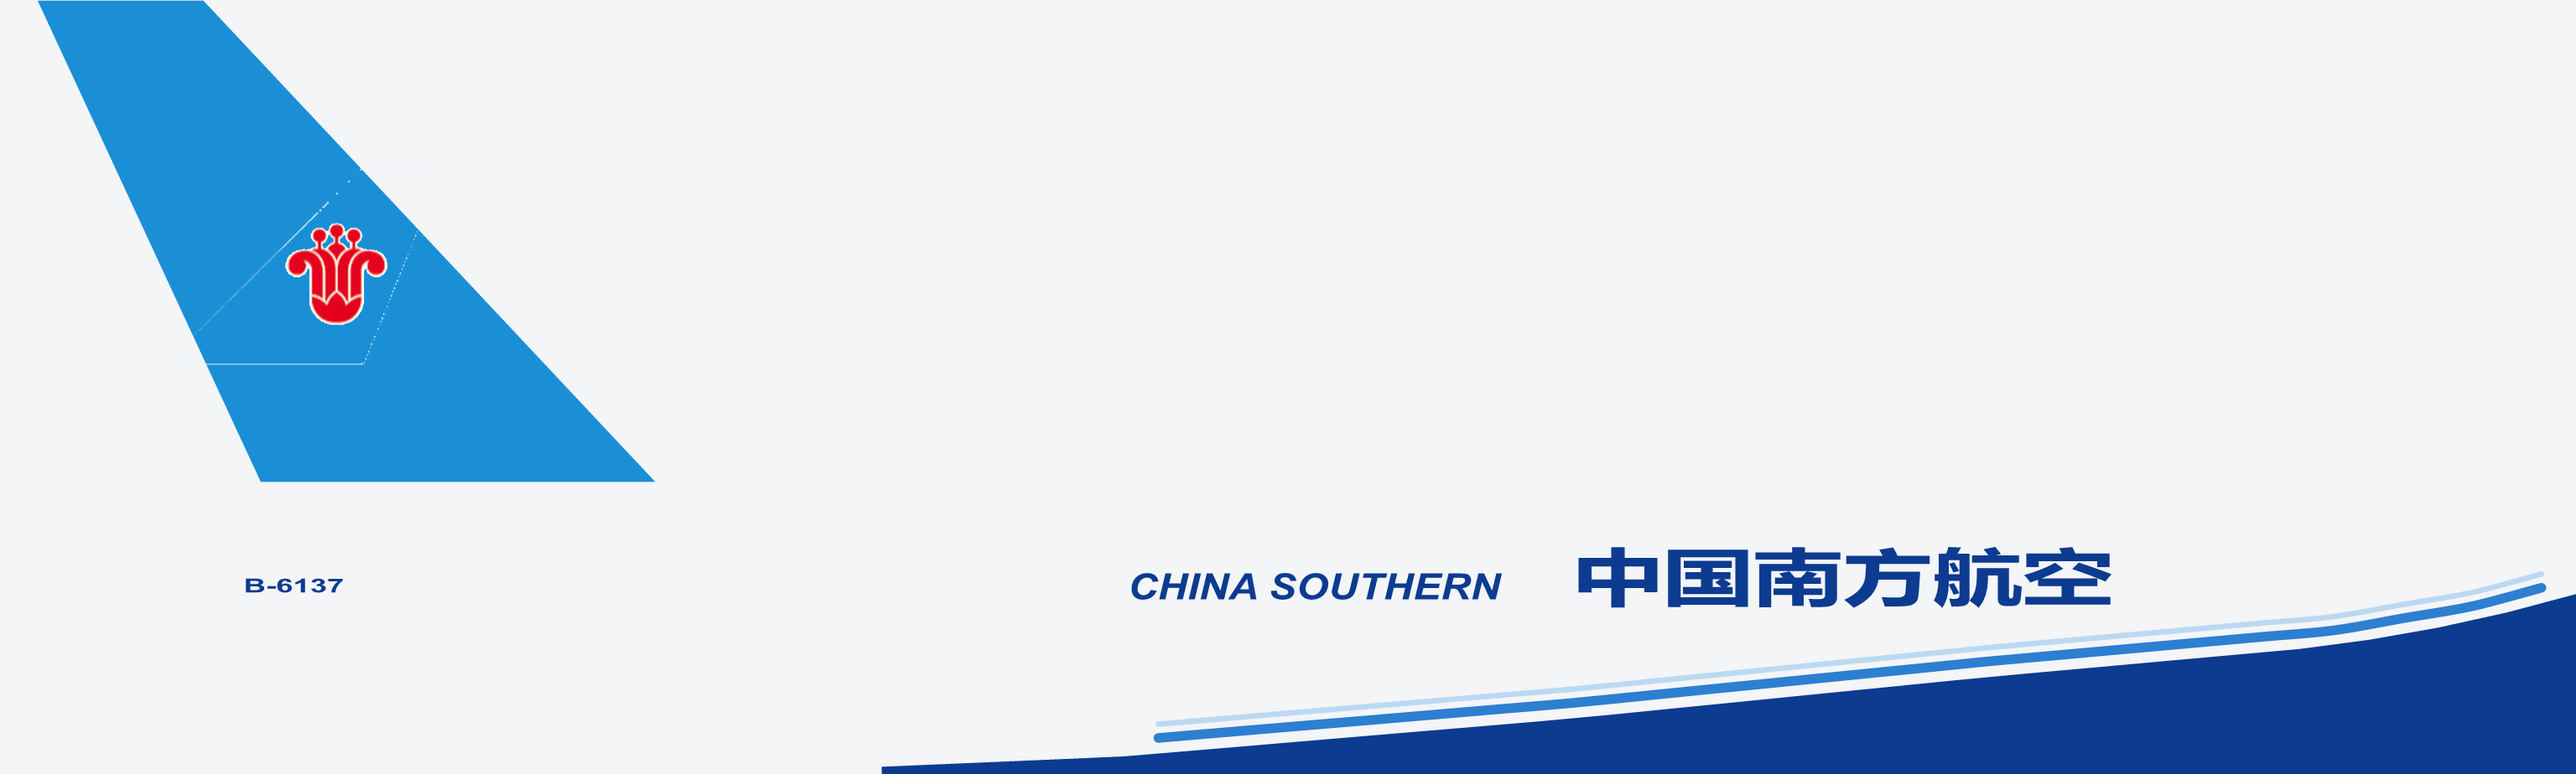
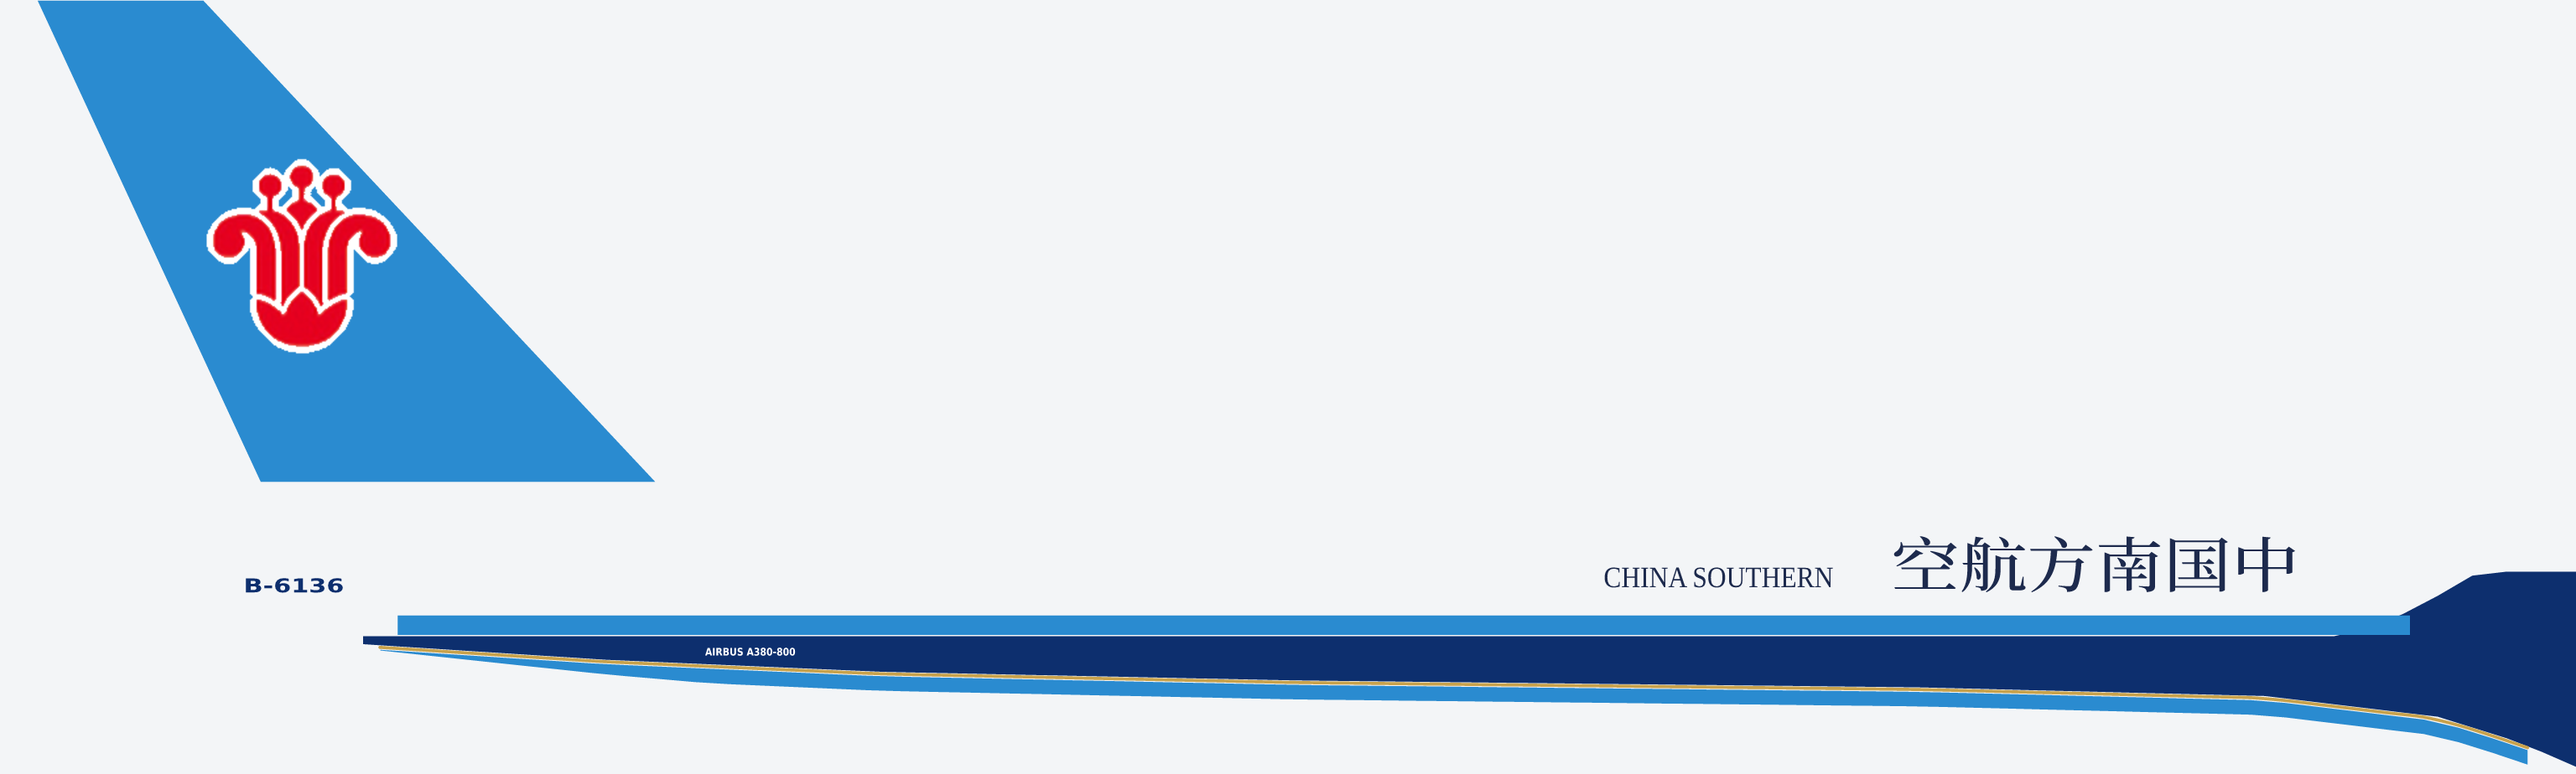
fix: China Southern A380 livery matches the real aircraft
Redrawn from photos of B-6136/B-6137: the navy now wraps the nose up to the cockpit glazing and runs aft as a band under the main-deck windows, with a sky-blue stripe through the windows above it and a gold hairline plus sky-blue stripe below; the belly stays white. Titles sit at upper-deck height in a Song-style face (中 nearest the nose on both sides) ahead of a serif CHINA SOUTHERN; an AIRBUS A380-800 badge sits in the band aft of the wing. The fin carries a much larger kapok with a clean white edge (the derived logo is cropped and re-edged). Wingtip fences are white. Atlas version bumped.

Agent: Pi Agent

Model: claude-opus-5.5 (github-copilot)

Changed region(s): [[0.125, 0.697, 1.0, 1.0], [0.0625, 0.2121, 0.1562, 0.4545], [0.0938, 0.7273, 0.125, 0.7879]]

diff --git a/src/reality-a380.js b/src/reality-a380.js
@@ -4,7 +4,7 @@ export const A380_REALITY={
  UAE:{status:'real',note:'阿联酋航空 A380-800（如 A6-EDA）：全白机身、红绿黑三色垂尾、金色 Emirates 与阿拉伯文机身标识。'},
  DLH:{status:'real',note:'汉莎航空 A380-800（D-AIMA 等）：白色机身、深蓝垂尾和黄色圆形鹤标、深蓝 Lufthansa 字样。'},
  BAW:{status:'real',note:'英国航空 A380-800（G-XLEA 等）：深蓝下机身与发动机、红白蓝英国国旗垂尾、红色 Speedmarque。'},
- CSN:{status:'real',note:'中国南方航空 A380-800（B-6137 等）：天蓝垂尾和红色木棉花、深蓝前下机身、蓝色中英文机身标识。'},
+ CSN:{status:'real',note:'中国南方航空 A380-800（B-6136 等）：天蓝垂尾配白边红色木棉花；深蓝色机头包到驾驶舱窗下，并沿主舱窗下方延伸到机身后段，上沿是穿过主舱窗的天蓝细条，下沿是金色细线和天蓝条；上舱高度的宋体“中国南方航空”与衬线体 CHINA SOUTHERN。'},
  CCA:{status:'none',note:'国航没有购买过 A380，真机无此涂装；此处是国航现行涂装的兼容适配。'},
  CEA:{status:'none',note:'东航没有购买过 A380，真机无此涂装；此处是东航现行涂装的兼容适配。'},
  CHH:{status:'none',note:'海航没有购买过 A380，真机无此涂装；此处是海航红色垂尾涂装的兼容适配。'},

diff --git a/src/a380-paint.js b/src/a380-paint.js
@@ -10,7 +10,7 @@ import {A380_NATIVE} from './a380-liveries.js';
 export const A380_ATLAS={x0:-37.5,x1:37.0,y0:-9.8,y1:12.6};
 const ROOT='/assets/a380-liveries/';
 // Bump when generated atlases change: the server gives /assets/* a 24-hour browser cache.
-export const A380_ATLAS_VERSION='20261111-1';
+export const A380_ATLAS_VERSION='20261116-1';
 const FIN_BASE_Y=-1.4;
 
 const BODY_MATERIAL=/^A380X_FUSE[1235]$/;

diff --git a/src/a380-liveries.js b/src/a380-liveries.js
@@ -19,7 +19,7 @@ export const A380_STYLE={
  BOE:style({winglet:'#14307a'}),
  CCA:style(),
  CEA:style(),
- CSN:style({winglet:'#0b3a8f'}),
+ CSN:style(),
  CHH:style({stabilizer:'#ed1c24',winglet:'#ed1c24'}),
  UAE:style({stabilizer:'#f7f6f2',nacelle:'#f7f6f2',winglet:'#f7f6f2'}),
  BAW:style({nacelle:'#1f2a6b',winglet:'#1f2a6b'}),

diff --git a/tests/a380-csn-livery.py b/tests/a380-csn-livery.py
@@ -1,0 +1,24 @@
+"""China Southern A380 atlas matches photos of B-6136/B-6137: navy nose and band under the main-deck windows,
+sky-blue window stripe, gold hairline and sky-blue stripe below the band, white belly, sky-blue fin with the red kapok.
+Run: python3 tests/a380-csn-livery.py (after node assets/a380-liveries/generate.mjs CSN)."""
+from pathlib import Path
+from PIL import Image
+ROOT=Path(__file__).resolve().parents[1]/'assets/a380-liveries'
+X0,X1,Y0,Y1=-37.5,37.0,-9.8,12.6
+def px(im,side,x,y):
+    w,h=im.size;s=w/(X1-X0)
+    u=(x-X0)*s if side=='port' else (X1-x)*s
+    return im.getpixel((int(u),int((Y1-y)*s)))[:3]
+def close(c,ref,tol=40):return all(abs(a-b)<=tol for a,b in zip(c,ref))
+NAVY=(13,47,110);SKY=(42,139,208);WHITE=(243,245,247)
+for side in ['port','starboard']:
+    im=Image.open(ROOT/f'CSN-{side}.webp').convert('RGB')
+    assert close(px(im,side,35.5,-5.0),NAVY),f'{side}: navy wraps the nose below the cockpit'
+    for x in [25,10,-5]:
+        assert close(px(im,side,x,-6.5),NAVY),f'{side}: navy band under the main-deck windows at x={x}'
+        assert close(px(im,side,x,-5.5),SKY),f'{side}: sky-blue stripe through the main-deck windows at x={x}'
+        assert close(px(im,side,x,-8.9),WHITE),f'{side}: white belly at x={x}'
+    assert close(px(im,side,-32,10),SKY),f'{side}: sky-blue fin'
+    flower=[px(im,side,-28.75+dx*.4,5.2+dy*.4) for dx in range(-5,6) for dy in range(-5,6)]
+    assert sum(1 for r,g,b in flower if r>180 and g<80 and b<80)>15,f'{side}: red kapok on the fin'
+print('China Southern A380 livery passed: navy nose and band, sky window stripe, white belly, sky fin with kapok on both sides.')
